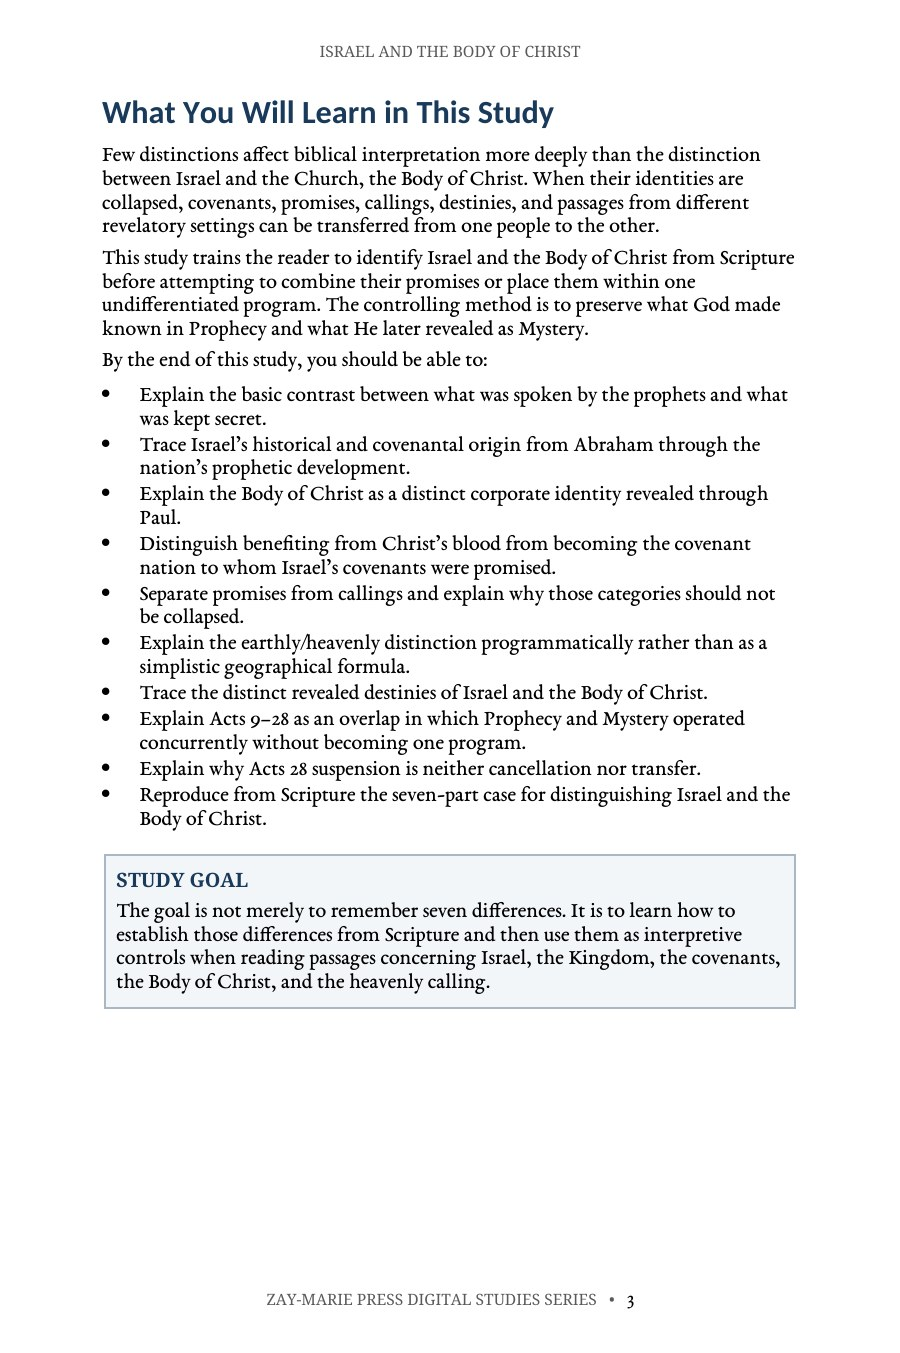
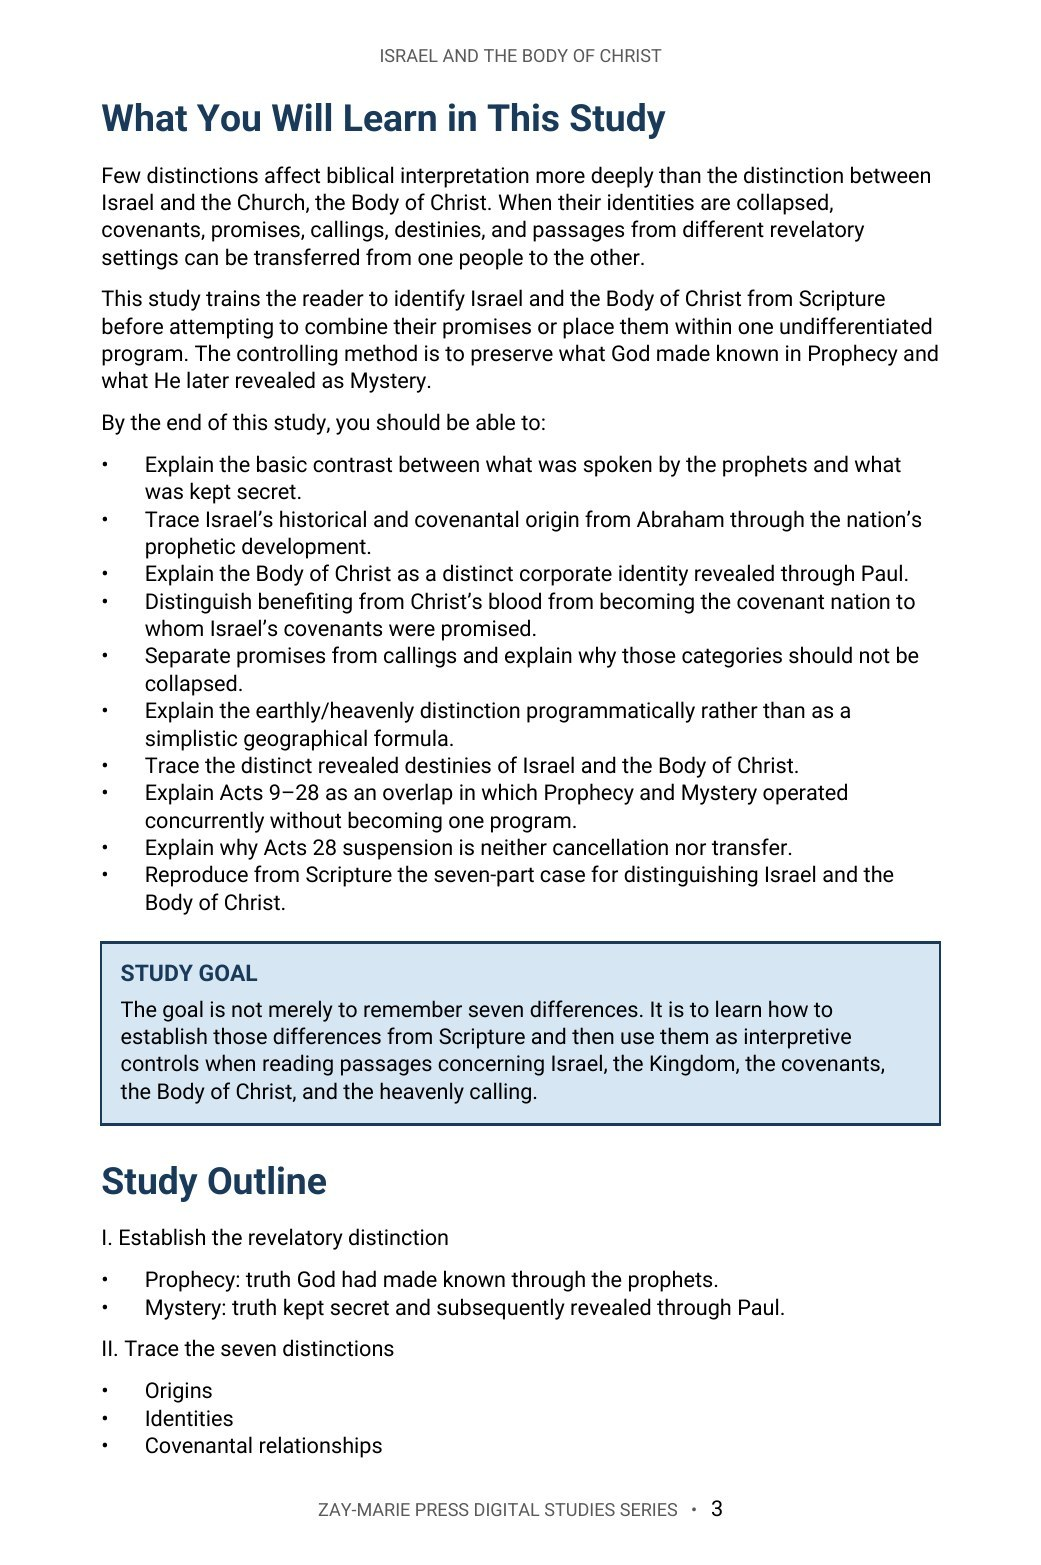
Study 4: Roboto rebuild, three-card preview strip, 18 pages; audit tracker v1.26
Claude-Session: https://claude.ai/code/session_01TLNFW47XCW6YAMUxScR3v4

Changed region(s): [[0.0933, 0.031, 0.9022, 0.9933]]

diff --git a/study-04-israel-and-the-body-of-christ.html b/study-04-israel-and-the-body-of-christ.html
@@ -44,13 +44,12 @@
 </div></div></section>
 <section class="detail-section"><div class="wrap"><div class="eyebrow">FROM THE STUDY</div><h2>One God Accomplishes Distinct Revealed Purposes</h2><div class="excerpt"><blockquote>“The same God accomplishes both purposes through the same Lord Jesus Christ while maintaining the distinctions He Himself revealed concerning each.”</blockquote><p>Israel belongs to a covenantal and prophetic history openly revealed through the prophets. The Body of Christ belongs to the Mystery revealed through Paul. Recognizing both purposes preserves God’s faithfulness and prevents promises, callings, and identities from being reassigned.</p></div></div></section>
 <section class="detail-section soft"><div class="wrap"><div class="eyebrow">A LOOK INSIDE</div><h2>Preview the Study Before You Purchase</h2><p class="preview-instruction">Click any page to enlarge it for reading.</p><div class="preview-grid">
+<div class="preview-card"><a class="preview-image-link" data-preview-lightbox href="assets/study-04-page-2.jpg"><img src="assets/study-04-page-2.jpg" alt="Study 4 interior preview — page 2, Table of Contents"/></a><div class="page-no">Page 2</div><h3>Table of Contents</h3><p>See the full structure of the study, from the introduction through the final synthesis.</p></div>
 <div class="preview-card"><a class="preview-image-link" data-preview-lightbox href="assets/study-04-page-3.jpg"><img src="assets/study-04-page-3.jpg" alt="Study 4 interior preview — page 3, What You Will Learn in This Study"/></a><div class="page-no">Page 3</div><h3>What You Will Learn</h3><p>Review the study’s goals for distinguishing Israel and the Body through origins, identities, covenants, promises, callings, destinies, programs, and the Acts Overlap.</p></div>
-<div class="preview-card"><a class="preview-image-link" data-preview-lightbox href="assets/study-04-page-8.jpg"><img src="assets/study-04-page-8.jpg" alt="Study 4 interior preview — page 8, Different Identities: Nation and Body"/></a><div class="page-no">Page 8</div><h3>Different Identities: Nation and Body</h3><p>Examine Israel’s national and covenantal identity alongside the Body’s distinct corporate identity as one Body in Christ.</p></div>
-<div class="preview-card"><a class="preview-image-link" data-preview-lightbox href="assets/study-04-page-14.jpg"><img src="assets/study-04-page-14.jpg" alt="Study 4 interior preview — page 14, Acts Overlap and Acts 28 controls"/></a><div class="page-no">Page 14</div><h3>Acts Overlap and Acts 28</h3><p>See why concurrency does not establish identity and why the suspension of Prophecy is neither cancellation nor transfer.</p></div>
-<div class="preview-card"><a class="preview-image-link" data-preview-lightbox href="assets/study-04-page-17.jpg"><img src="assets/study-04-page-17.jpg" alt="Study 4 interior preview — page 17, seven distinctions and Scripture tracing"/></a><div class="page-no">Page 17</div><h3>Seven Distinctions in One View</h3><p>Review the summary comparison, key distinctions to retain, Scripture-tracing exercise, and opening review questions.</p></div>
+<div class="preview-card"><a class="preview-image-link" data-preview-lightbox href="assets/study-04-page-6.jpg"><img src="assets/study-04-page-6.jpg" alt="Study 4 interior preview — page 6, Different Identities: Nation and Body"/></a><div class="page-no">Page 6</div><h3>Different Identities: Nation and Body</h3><p>Examine Israel’s national and covenantal identity alongside the Body’s distinct corporate identity as one Body in Christ.</p></div>
 </div></div></section>
 <section class="detail-section"><div class="wrap"><div class="eyebrow">WHAT’S INCLUDED</div><h2>A Focused Study Built for<br/>Understanding and Teaching</h2><div class="includes-grid">
-<div class="include-item"><h3>20-Page In-Depth Biblical Study</h3><p>A sustained biblical case for distinguishing Israel and the Body of Christ across seven controlling categories.</p></div>
+<div class="include-item"><h3>18-Page In-Depth Biblical Study</h3><p>A sustained biblical case for distinguishing Israel and the Body of Christ across seven controlling categories.</p></div>
 <div class="include-item"><h3>11 Core Teaching Sections</h3><p>Progress from Prophecy and Mystery through the seven distinctions, the Acts Overlap, Acts 28, and interpretive application.</p></div>
 <div class="include-item"><h3>Seven-Distinction Summary</h3><p>Compare origins, identities, covenantal relationships, promises, callings, destinies, and programs in one view.</p></div>
 <div class="include-item"><h3>Scripture-Tracing Exercise</h3><p>Record each passage’s people, promise or identity, revelatory program, and contribution to the Israel–Body distinction.</p></div>
@@ -59,7 +58,7 @@
 <div class="include-item"><h3>Seven Guided Investigations</h3><p>Trace Israel’s promises, covenant recipients, Body terminology, distinct callings, Acts 3 and Romans 16, the overlap, and promise application.</p></div>
 <div class="include-item"><h3>Final Synthesis Exercise</h3><p>Build a two- to three-page explanation using all seven distinctions and the three governing controls.</p></div>
 </div></div></section>
-<section class="detail-section cream"><div class="wrap"><div class="final-buy"><div><div class="eyebrow">STUDY 4 · DIGITAL STUDY</div><h2>Israel and the Body of Christ</h2><p>20-page digital PDF · For personal use</p></div><div class="final-offer"><div class="detail-price">$5.99</div><span class="detail-button pending" aria-disabled="true">Get the Study</span></div></div><a class="back-link" href="digital-studies.html">← Back to All Digital Studies</a></div></section>
+<section class="detail-section cream"><div class="wrap"><div class="final-buy"><div><div class="eyebrow">STUDY 4 · DIGITAL STUDY</div><h2>Israel and the Body of Christ</h2><p>18-page digital PDF · For personal use</p></div><div class="final-offer"><div class="detail-price">$5.99</div><span class="detail-button pending" aria-disabled="true">Get the Study</span></div></div><a class="back-link" href="digital-studies.html">← Back to All Digital Studies</a></div></section>
 <section class="study-method-course-bridge"><div class="wrap"><div class="study-method-course-panel"><div><div class="eyebrow">BUILD THE INTERPRETIVE METHOD</div><h2>Want More Than a Focused Study?</h2><p>Digital Studies examine particular biblical subjects and difficult passages. The 40-lesson Biblical Hermeneutics course teaches a complete, repeatable method for establishing meaning in context, determining proper assignment, and making responsible application.</p></div><a class="btn btn-primary" href="biblical-hermeneutics-course.html">BIBLICAL HERMENEUTICS COURSE</a></div></div></section></main><div class="preview-lightbox" id="preview-lightbox" role="dialog" aria-modal="true" aria-label="Enlarged study page preview"><button class="preview-lightbox-close" type="button" aria-label="Close enlarged preview">×</button><img src="" alt=""/><div class="preview-lightbox-hint">Scroll to read the full page · Press Esc or click outside the page to close</div></div>
 <footer class="site-footer"><div class="wrap footer-grid"><div class="footer-about"><h3>Zay-Marie Press</h3><p class="footer-tagline"><em>Where the Bible Means What It Says.</em></p><p>Zay-Marie Press is a Christian theological publisher dedicated to producing doctrinally precise, carefully structured biblical resources that equip pastors, teachers, and serious students with clarity, depth, and Scripture-anchored truth.</p><p><a href="https://zaymariepress.com">zaymariepress.com</a><br/><a href="mailto:info@zaymariepress.com">info@zaymariepress.com</a></p></div><div class="footer-column"><h3>Explore</h3><div class="footer-links-stacked"><a href="books.html">Books</a><br/><a href="series.html">Series</a><br/><a href="biblical-hermeneutics-course.html">Course</a><br/><a href="digital-studies.html">Digital Studies</a><br/><a href="resources.html">Resources</a><br/><a href="bible-book-summaries.html">Bible Book Summaries</a><br/><a href="doctrinal-packets.html">Doctrinal Packets</a><br/><a href="historical-drift.html">Historical Drift</a><br/><a href="about.html">About</a><br/><a href="contact.html">Contact</a></div></div><div class="footer-column"><h3>Reader Support</h3><div class="footer-links-stacked"><a href="reader-support.html#faq">FAQ</a><br/><a href="reader-support.html#shipping-returns">Shipping &amp; Returns</a><br/><a href="reader-support.html#digital-downloads">Digital Downloads</a><br/><a href="reader-support.html#contact-support">Contact Support</a></div></div><div class="footer-column"><h3>Acts Overlap</h3><p><strong>Acts Overlap Theology Series</strong></p><p><em>Two Distinct Streams. One Overlap.</em></p><p><a href="series.html">Series Overview</a></p></div></div><div class="wrap footer-bottom">© 2026 Zay-Marie Press. All rights reserved.</div></footer>
 <script src="site.js"></script><script>(function(){var box=document.getElementById("preview-lightbox"),img=box.querySelector("img"),close=box.querySelector(".preview-lightbox-close"),hint=box.querySelector(".preview-lightbox-hint"),hintTimer;function shut(){clearTimeout(hintTimer);box.classList.remove("open");hint.classList.remove("fade");document.body.style.overflow="";img.src="";}document.querySelectorAll("[data-preview-lightbox]").forEach(function(a){a.addEventListener("click",function(e){e.preventDefault();clearTimeout(hintTimer);img.src=a.getAttribute("href");img.alt=a.querySelector("img").alt;hint.classList.remove("fade");box.classList.add("open");document.body.style.overflow="hidden";box.scrollTop=0;hintTimer=setTimeout(function(){hint.classList.add("fade");},3000);});});close.addEventListener("click",shut);box.addEventListener("click",function(e){if(e.target===box)shut();});document.addEventListener("keydown",function(e){if(e.key==="Escape"&&box.classList.contains("open"))shut();});})();</script>

diff --git a/site.js b/site.js
@@ -62,7 +62,7 @@ const resourceModal=document.querySelector('#resource-modal'), resourceModalTitl
 if(resourceModal&&resourceModalTriggers.length){const closeResourceModal=()=>{resourceModal.hidden=true;document.body.classList.remove('resource-modal-open');lastResourceTrigger?.focus();};resourceModalTriggers.forEach(trigger=>trigger.addEventListener('click',()=>{lastResourceTrigger=trigger;if(resourceModalTitle)resourceModalTitle.textContent=trigger.dataset.title||'Resource';if(resourceModalDescription)resourceModalDescription.textContent=trigger.dataset.description||'';if(resourceModalLink){resourceModalLink.href=trigger.dataset.href||'#';resourceModalLink.textContent=trigger.dataset.linkText||'OPEN RESOURCE';}resourceModal.hidden=false;document.body.classList.add('resource-modal-open');resourceModalClose?.focus();}));resourceModalClose?.addEventListener('click',closeResourceModal);resourceModal.addEventListener('click',e=>{if(e.target===resourceModal)closeResourceModal();});document.addEventListener('keydown',e=>{if(e.key==='Escape'&&!resourceModal.hidden)closeResourceModal();});}
 
 /* Display the verified final-PDF page count at the primary purchase decision point. */
-const digitalStudyPageCounts={1:14,2:14,3:18,4:20,5:16,6:16,7:17,8:15,9:16,10:23,11:13,12:13,13:15,14:13,15:13,16:14,17:14,18:13,19:13,20:13,21:14,22:15,23:15,24:13,25:13,26:17,27:15,28:14,29:13,30:17,31:17,32:14,33:15,34:16,35:15,36:15,37:15,38:16,39:16,40:15,41:15,42:15,43:17,44:15,45:15,46:15,47:16,48:15,49:14,50:14,51:15,52:15,53:15,54:15,55:16,56:16,61:16,62:16,63:16,64:16,65:16,66:16,67:16,68:16,69:16,70:16,71:16};
+const digitalStudyPageCounts={1:14,2:14,3:18,4:18,5:16,6:16,7:17,8:15,9:16,10:23,11:13,12:13,13:15,14:13,15:13,16:14,17:14,18:13,19:13,20:13,21:14,22:15,23:15,24:13,25:13,26:17,27:15,28:14,29:13,30:17,31:17,32:14,33:15,34:16,35:15,36:15,37:15,38:16,39:16,40:15,41:15,42:15,43:17,44:15,45:15,46:15,47:16,48:15,49:14,50:14,51:15,52:15,53:15,54:15,55:16,56:16,61:16,62:16,63:16,64:16,65:16,66:16,67:16,68:16,69:16,70:16,71:16};
 const digitalStudyMatch=window.location.pathname.match(/\/study-(\d+)-/i);
 const digitalStudyFormat=document.querySelector('.detail-hero .detail-format');
 if(digitalStudyMatch&&digitalStudyFormat){const studyNumber=Number(digitalStudyMatch[1]),pageCount=digitalStudyPageCounts[studyNumber];if(pageCount)digitalStudyFormat.textContent=`Digital PDF · ${pageCount} Pages`;}

diff --git a/controlling-documents/Digital_Studies_PAM_Audit_v1.26.md b/controlling-documents/Digital_Studies_PAM_Audit_v1.26.md
@@ -1,4 +1,4 @@
-# Digital Studies vs. PAM Audit — v1.25
+# Digital Studies vs. PAM Audit — v1.26
 
 Working tracker and instructions for checking the Digital Studies against the Program Assignment Manual (PAM), §XIX of `Framework_Control_Document_Acts_Overlap.docx`, including its "Section 4 — Publisher Rulings". Same `_vX.Y` convention as the other controlling documents: update the status table and changelog as the audit proceeds, bump the version, and rename the file to match.
 
@@ -252,3 +252,4 @@ Study 15 PDF not yet supplied. Typography: none of Studies 2, 3, 6, 8 is in EB G
 - v1.23 (2026-09-30): Study 9 interior rebuilt from the publisher's DOCX (Study_9_The_Remnant_REVISED_FINAL.docx) in Roboto and brought to the Master Standard (publisher approved the rendered review copy v4, "i approve"). The DOCX predated the Standard. Changed: cover replaced with the approved full-bleed cover (the DOCX held a legacy cover with the title cropped); body 6 pt after / 1.08 line spacing, H1 14/8, H2 10/5 (were 2.5 pt / 0.98, 8/3, 6.5/3); callouts rebuilt as single light-blue boxes with a dark navy border, about 7 pt top/bottom and 8 pt left/right padding, 10 pt before and after, and increased from 3 to 5 (Study Goal, Study Chain, Interpretive Control, Acts 28 Control, Conclusion Control; the two new ones are the study's own sentences moved into boxes, wording unchanged); tables with Slate Blue (#3B6E91) headers, white text, dark single-line borders on every cell, plain white body rows, rows kept together; Table of Contents moved ahead of What You Will Learn (Master Standard section 3), with a What You Will Learn entry added; final imprint block added (section 10); one sentence split across two paragraphs in the Introduction ("The goal is not to create / one remnant community...") joined; blank page-break paragraph before Study Summary removed; Study Chain steps kept whole on each line. Left and right margins narrowed from 0.64 in to 0.58 in to hold the study at 15 interior pages without cutting text. 16 pages total (cover plus 15 interior), only Roboto faces embedded, 0 TOC mismatches. Website: preview strip now Page 2 Table of Contents, Page 3 What You Will Learn, Page 8 Acts 9-28 Concurrent Operation, images re-cut from the rebuilt PDF at 1041 x 1565 (the page is 6 x 9 in, so it keeps its own proportions); page count stays 16. **Open, not changed:** this DOCX prints the series line in the page header and "THE REMNANT - zaymariepress.com" as the footer (Master Standard section 11 wants the series footer); no interior title page (section 3); page size is 6 x 9 in while Studies 1 and 2 are letter. The publisher swaps the purchasable PDF himself. Live check of Study 9 was not possible from the workspace (Cloudflare Access sign-in).
 - v1.24 (2026-09-30): Master Standard v1.28 (publisher directive): exactly five boxed callouts per study (dark navy border; extras become body paragraphs with a bold run-in lead), copyright notice only in the end imprint (no front copyright page), table body rows plain white. Study 3 rebuilt in Roboto as a review copy to these rules (5 callouts, TOC first, Roboto only, review questions renumbered 1-12); it runs 18 pages (cover plus 17 interior) against the 16 allowed, so the publisher must choose between trimming about 1.7 pages, allowing 17 interior pages, or a smaller body size. Study 3 is not pushed and its site files are unchanged. Studies 4-8 and 11-14 will follow the same rules.
 - v1.25 (2026-09-30): Study 3 approved by the publisher as built ("i approve": 18 pages, cover plus 17 interior) and pushed. Interior rebuilt in Roboto from the publisher's Production Master DOCX: five boxed callouts (the other twelve became body paragraphs with a bold run-in lead, wording unchanged), table of contents first with a What You Will Learn entry, blank spacer paragraphs removed, Standard spacing, tables restyled, front copyright page moved into the end imprint, footer text "DIGITAL STUDIES SERIES", review questions renumbered 1-12 (were 12-23), narrower margins (0.58 in). Website: preview strip reduced from four cards (pages 3, 11, 12, 17) to the three required by section 16: Page 2 Table of Contents, Page 3 What You Will Learn, Page 11 Rapture and Prophetic Second Coming; images re-cut from the rebuilt PDF at 1041 x 1565 (6 x 9 in page); old pages 12, 14 and 17 removed; page count 20 to 18 in site.js, the What's Included card and the buy panel. The publisher swaps the purchasable PDF himself. Not checked live (Cloudflare Access sign-in); checked locally at 1280, 390, 360 and 320 px.
+- v1.26 (2026-09-30): Study 4 approved by the publisher as built (18 pages, cover plus 17 interior, same as Study 3) and pushed. Interior rebuilt in Roboto from the publisher's Production Master DOCX to Master Standard v1.28: five boxed callouts (Study Goal, Interpretive Control in the Introduction, Summary Control, Acts Overlap Control, Final Control; the other 19 became body paragraphs with a bold run-in lead, wording unchanged); table of contents first with a What You Will Learn entry; the TOC placeholder line "Final page numbers will be inserted during the publisher-grade production pass." removed (section 5); review questions renumbered 1-13; copyright moved to the end imprint. Website: preview strip reduced from four cards to three (Page 2 Table of Contents, Page 3 What You Will Learn, Page 6 Different Identities: Nation and Body), images re-cut at 1041 x 1565; old pages 8, 14 and 17 removed; page count 20 to 18 in site.js, the What's Included card and the buy panel. Not checked live (Cloudflare Access sign-in); checked locally at 1280, 390, 360 and 320 px. The publisher swaps the purchasable PDF himself.
